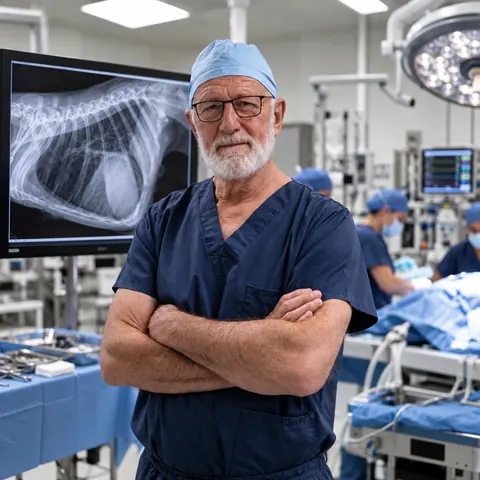
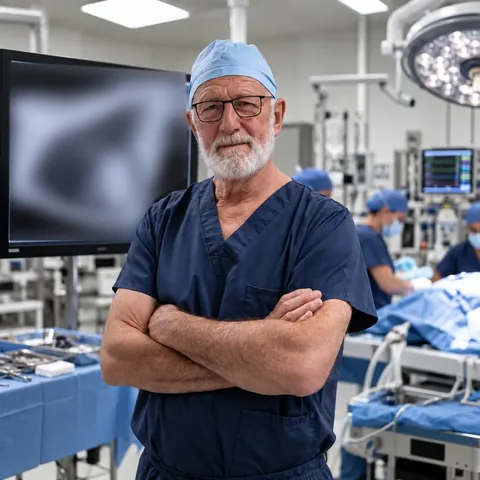
feat(vai.vet): blur the radiograph behind the surgeon (final); tactile 3D scenario cards on VAI Dialogue

Changed region(s): [[0.0, 0.125, 0.4062, 0.5312]]

diff --git a/src/lib/photography/library.ts b/src/lib/photography/library.ts
@@ -40,7 +40,7 @@ export interface PhotoEntry {
 export const PHOTO_WIDTHS = [480, 800, 1024] as const;
 export const PHOTO_BASE = '/photography/library';
 /** Bump when library files are replaced in place: it is appended to every image URL (?v=) so browsers and the CDN fetch the new files instead of serving a cached copy for hours. Last bump: 2026-10-10 (c), surgeon-theatre was replaced with the founder's corrected picture (no horse, canine thorax radiograph). */
-export const PHOTO_VERSION = '20261010d';
+export const PHOTO_VERSION = '20261010e';
 
 
 
